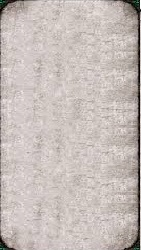
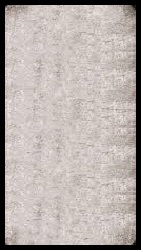
Changes on 13.05... *EmptySlot image was updated, didn't look empty enough. *Setting the side already when the MinionCard is created in Player class to avoid side issues. *Implemented CardSlot class. Now the game keeps up with 7 (current max) CardSlot objects and updates them at times when required.

Changed region(s): [[0.0, 0.0, 1.0, 1.0]]

diff --git a/src/main/java/userinterface/GameScene.java b/src/main/java/userinterface/GameScene.java
@@ -29,6 +29,7 @@ import static java.util.concurrent.TimeUnit.SECONDS;
 class GameScene extends Scene {
 
     private GameBoard gameBoard = new GameBoard();
+    private List<CardSlot> cardSlots = new ArrayList<>();
     private Player playerWhite = new Player(Side.WHITE), playerBlack = new Player(Side.BLACK);
     private int timerStartTime = 60;
     private double timerNodeWidthInPixels = 250;
@@ -67,7 +68,8 @@ class GameScene extends Scene {
 
         //load the generals onto the board
         setGeneralsOnGameboardAndShowImages(setupSettings);
-        setCardSlotImages();
+        cardSlots = createAndGetCardSlots();
+        updateCardSlots();
 
         Text timerText = createAndPlaceTimer();
         Label turnLabel = createAndPlaceLabel((timerNodeWidthInPixels - 50) / 2, 10, currentPlayer.getSide().toString());
@@ -126,6 +128,40 @@ class GameScene extends Scene {
         String gameTitle = "Card Game 1.0";
         primaryStage.setTitle(gameTitle);
         primaryStage.show();
+    }
+
+    private List<CardSlot> createAndGetCardSlots() {
+        List<CardSlot> cardSlots = new ArrayList<>();
+        for (int cardSlotNr = 0; cardSlotNr < PlayerHand.getMaximumHandSize(); cardSlotNr++) {
+            CardSlot newCardSlot = new CardSlot(cardSlotNr);
+            Group cardSlotImage = newCardSlot.getCardSlotImage();
+            cardSlotImage.setLayoutX(cardSlotNr * PlayerHand.getPreferredCardWidth() + PlayerHand.getLeftMostPixelValue());
+            cardSlotImage.setLayoutY(PlayerHand.getTopMostPixelValue());
+            parentGroup.getChildren().add(cardSlotImage);
+            cardSlots.add(newCardSlot);
+        }
+        return cardSlots;
+    }
+
+    private void updateCardSlots(){
+        CardSlot currentCardSlot;
+        for (int cardSlotNr = 0; cardSlotNr < PlayerHand.getMaximumHandSize(); cardSlotNr++) {
+            //get the right cardslot
+            currentCardSlot = cardSlots.get(cardSlotNr);
+            //remove the old image
+            parentGroup.getChildren().remove(currentCardSlot.getCardSlotImage());
+            //set it's card if there is one
+            if (cardSlotNr < currentPlayer.getPlayerHand().getCardsInHand().size()) {
+                currentCardSlot.setCard(currentPlayer.getPlayerHand().getCardsInHand().get(cardSlotNr));
+            }
+            //update the cardslot image according to if it has a card now or not (the function sorts it out)
+            cardSlots.get(cardSlotNr).updateCardSlotImage();
+            //set the new image and show it
+            Group cardSlotImage = currentCardSlot.getCardSlotImage();
+            cardSlotImage.setLayoutX(cardSlotNr * PlayerHand.getPreferredCardWidth() + PlayerHand.getLeftMostPixelValue());
+            cardSlotImage.setLayoutY(PlayerHand.getTopMostPixelValue());
+            parentGroup.getChildren().add(cardSlotImage);
+        }
     }
 
     private void flashAllyMinionSquares(Color color) {
@@ -189,53 +225,10 @@ class GameScene extends Scene {
         return label;
     }
 
+
     private void updateLabel(Label label, InteractionState state) {
         this.state = state;
         label.setText("Current state: " + state.toString());
-    }
-
-
-    /**
-     * Method loads the images of cards in the given card slots
-     */
-    private void setCardSlotImages() {
-        for (int cardSlot = 0; cardSlot < PlayerHand.getMaximumHandSize(); cardSlot++) {
-            Group cardPicture;
-            if (cardSlot < currentPlayer.getPlayerHand().getCardsInHand().size()) {
-                Card cardInHand = currentPlayer.getPlayerHand().getCardsInHand().get(cardSlot);
-                if(cardInHand instanceof MinionCard){
-                    ((MinionCard) cardInHand).setSide(currentPlayer.getSide());
-                    cardPicture = getCardDisplayImage(cardInHand);
-                    cardPicture.setLayoutX(cardSlot * PlayerHand.getPreferredCardWidth() + PlayerHand.getLeftMostPixelValue());
-                    cardPicture.setLayoutY(PlayerHand.getTopMostPixelValue());
-                    parentGroup.getChildren().add(cardPicture);
-                }
-            }
-
-        }
-    }
-
-    private Group getCardDisplayImage(Card card){
-        Group cardGroup = new Group();
-
-        ImageView cardImageView = new ImageView(card.getImage());
-        cardImageView.setFitHeight(PlayerHand.getPreferredCardHeight());
-        cardImageView.setFitWidth(PlayerHand.getPreferredCardWidth());
-
-        ImageView cardFrame = new ImageView(new Image("cardFrame.png"));
-        cardFrame.setFitHeight(PlayerHand.getPreferredCardHeight());
-        cardFrame.setFitWidth(PlayerHand.getPreferredCardWidth());
-
-        int nameXAdjustment = 35, nameYAdjustment = 20;
-        Text minionName = new Text(nameXAdjustment, nameYAdjustment, card.getName());
-        int nameLength = card.getName().length();
-        double fontFunction = 30/(1 + nameLength/10.0);
-        minionName.setFont(new Font(fontFunction));
-        minionName.setFill(Color.WHITE);
-
-        cardGroup.getChildren().addAll(cardImageView, cardFrame, minionName);
-
-        return cardGroup;
     }
 
     /**
@@ -311,15 +304,21 @@ class GameScene extends Scene {
         Point2D squareCoordinates = getSquareByPixelCoordinates(event.getSceneX(), event.getSceneY());
         int cardSlotNumber = getCardSlotNumber(event.getSceneX(), event.getSceneY());
 
-        if (cardSlotNumber != -1) {//click on cardslots
+        if (cardSlotNumber != -1 && cardSlotNumber < currentPlayer.getPlayerHand().getCardsInHand().size()) {//click on cardslots
             state = InteractionState.NONE;
             setCurrentActiveCardByCardSlot(cardSlotNumber);
             highlightPossibleSummonSquares();
 
-        } else {//click not on cardslots
+        } else if(coordinatesOnGameboard(squareCoordinates)){//click on gameboard
             checkStateAndprocessClickOnBoard(squareCoordinates);
             currentActiveCard = null;
+        }else{
+            setSquareImagesToCardImagesOrDefaults();
         }
+    }
+
+    private boolean coordinatesOnGameboard(Point2D squareCoordinates){
+        return !squareCoordinates.equals(new Point2D(-1, -1));
     }
 
     private Square getCurrentGeneralSquare() {
@@ -376,7 +375,7 @@ class GameScene extends Scene {
                 squareToSummonOn.getCard().setHasAttacked(true);
                 currentPlayer.getPlayerHand().getCardsInHand().remove(currentActiveCard);
                 currentManaLabel.setText(String.valueOf("Current mana: " + currentPlayer.getUsableMana()));
-                setCardSlotImages();
+                updateCardSlots();
             }
         }
         if (squareCoordinates.getX() >= 0) {
@@ -637,11 +636,11 @@ class GameScene extends Scene {
         incrementTurnCounter();
         clearMinionInformationLabels();
         currentPlayer.getPlayerHand().addCardIfPossible(currentPlayer.getPlayerDeck().draw());
-        setCardSlotImages();
     }
 
     private void resetAllNodesToStartOfTurn(Text timerText, Label sideLabel) {
         updateLabel(currentStateLabel, InteractionState.NONE);
+        updateCardSlots();
         resetTimer(timerText);
         sideLabel.setText(currentPlayer.getSide().toString());
         generalHealthLabel.setText(String.valueOf("General health: " + currentPlayer.getGeneral().getCurrentHp()));

diff --git a/src/main/java/userinterface/CardSlot.java b/src/main/java/userinterface/CardSlot.java
@@ -11,16 +11,21 @@ import javafx.scene.text.Text;
 public class CardSlot {
     private int slotNumber;
     private double slotWidth = 140, slotHeight = 250;
-    private Card card;
     private Group imageGroup = new Group();
+    private Card card = null;
+    private ImageView defaultImageView = new ImageView(new Image("emptySlot.jpg"));
 
-    public CardSlot(int slotNumber, Card card) {
+    public CardSlot(int slotNumber) {
         this.slotNumber = slotNumber;
-        this.card = card;
-        imageGroup.getChildren().add(new ImageView(new Image("emptySlot.jpg")));
+        imageGroup.getChildren().add(defaultImageView);
     }
 
-    public void setCardSlotImage(){
+    public void updateCardSlotImage(){
+        if(!hasCard()){
+            imageGroup.getChildren().clear();
+            imageGroup.getChildren().add(defaultImageView);
+            return;
+        }
         ImageView cardImageView = new ImageView(card.getImage());
         cardImageView.setFitHeight(slotHeight);
         cardImageView.setFitWidth(slotWidth);
@@ -36,11 +41,30 @@ public class CardSlot {
         minionName.setFont(new Font(fontFunction));
         minionName.setFill(Color.WHITE);
 
-        imageGroup.getChildren().removeAll();
+        imageGroup.getChildren().clear();
         imageGroup.getChildren().addAll(cardImageView, cardFrame, minionName);
+    }
+
+    public void setCard(Card card){
+        this.card = card;
+    }
+    public Card getCard(){
+        return this.card;
+    }
+
+    public boolean hasCard(){
+        return card != null;
     }
 
     public Group getCardSlotImage(){
         return this.imageGroup;
+    }
+
+    @Override
+    public String toString() {
+        return "CardSlot{" +
+                "slotNumber=" + slotNumber +
+                ", card=" + card +
+                '}';
     }
 }

diff --git a/src/main/java/userinterface/Player.java b/src/main/java/userinterface/Player.java
@@ -46,7 +46,11 @@ public class Player {
      */
     private void initiateDeck() {
         for (int i = 0; i < deckSize; i++) {
-            playerPlayerDeck.addCard(randomCard());
+            Card newCard = randomCard();
+            if(newCard instanceof MinionCard){
+                ((MinionCard) newCard).setSide(this.side);
+            }
+            playerPlayerDeck.addCard(newCard);
         }
     }
 
